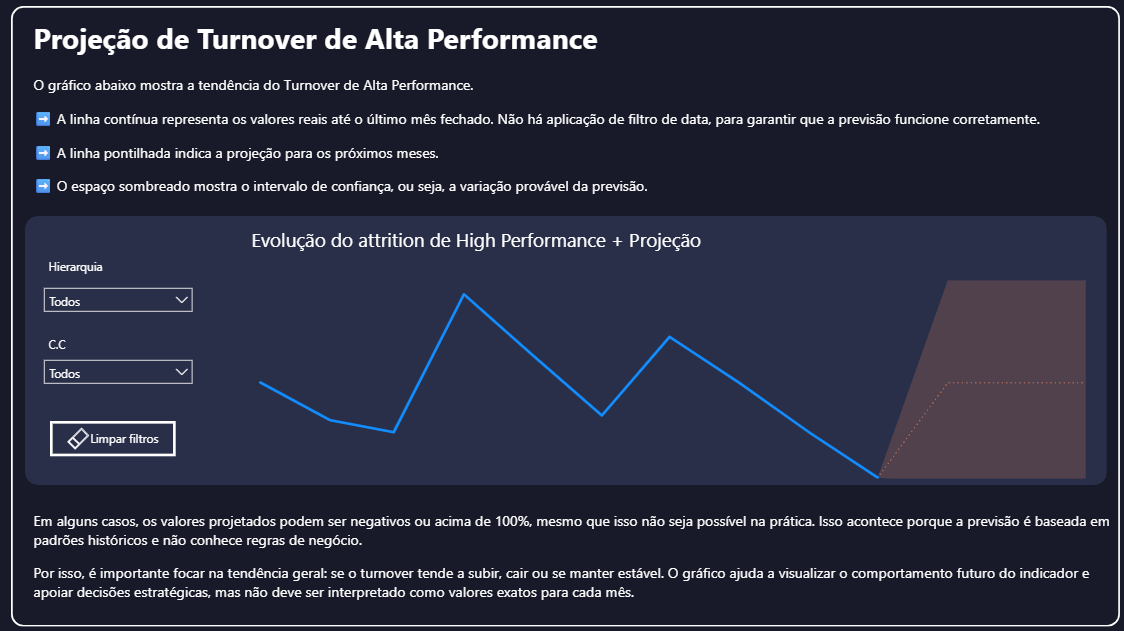
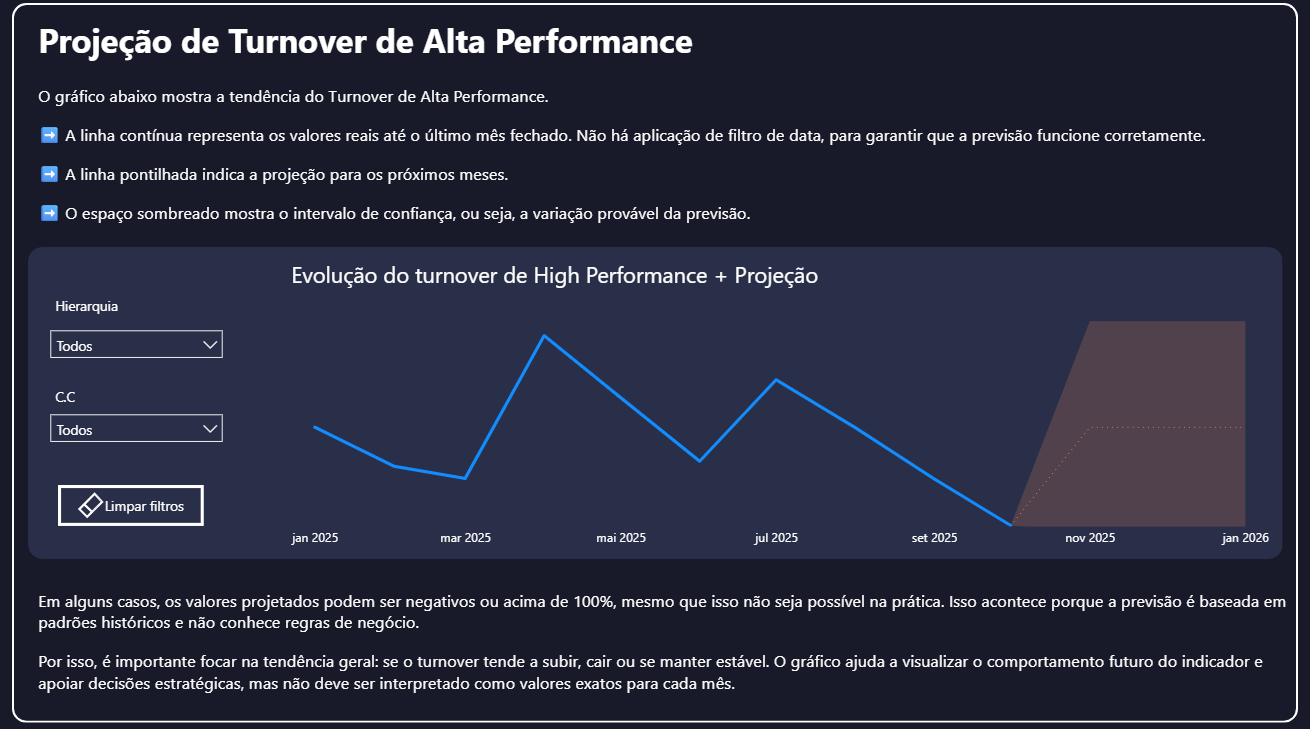
atualizando foto projecao

diff --git a/src/content.config.ts b/src/content.config.ts
@@ -1,13 +1,18 @@
 import { defineCollection, z } from 'astro:content';
-import { glob } from 'astro/loaders'; // O Astro agora exige um loader para arquivos locais
+import { glob } from 'astro/loaders';
 
 const projetos = defineCollection({
-  // O "glob" diz para o Astro procurar arquivos .md dentro de src/content/projetos/
   loader: glob({ pattern: '**/[^_]*.md', base: "./src/content/projetos" }),
   schema: z.object({
     titulo: z.string(),
-    objetivo: z.string(),
+    resumoCard: z.string(), // O texto curto que aparece no card da Home
+    desafio: z.string(),
+    abordagem: z.string(),
+    resultados: z.string(),
     competencias: z.array(z.string()),
+    // Deixamos preparados os campos de mídias para o futuro
+    dashboardUrl: z.string().optional(),
+    videoUrl: z.string().optional(),
   }),
 });
 